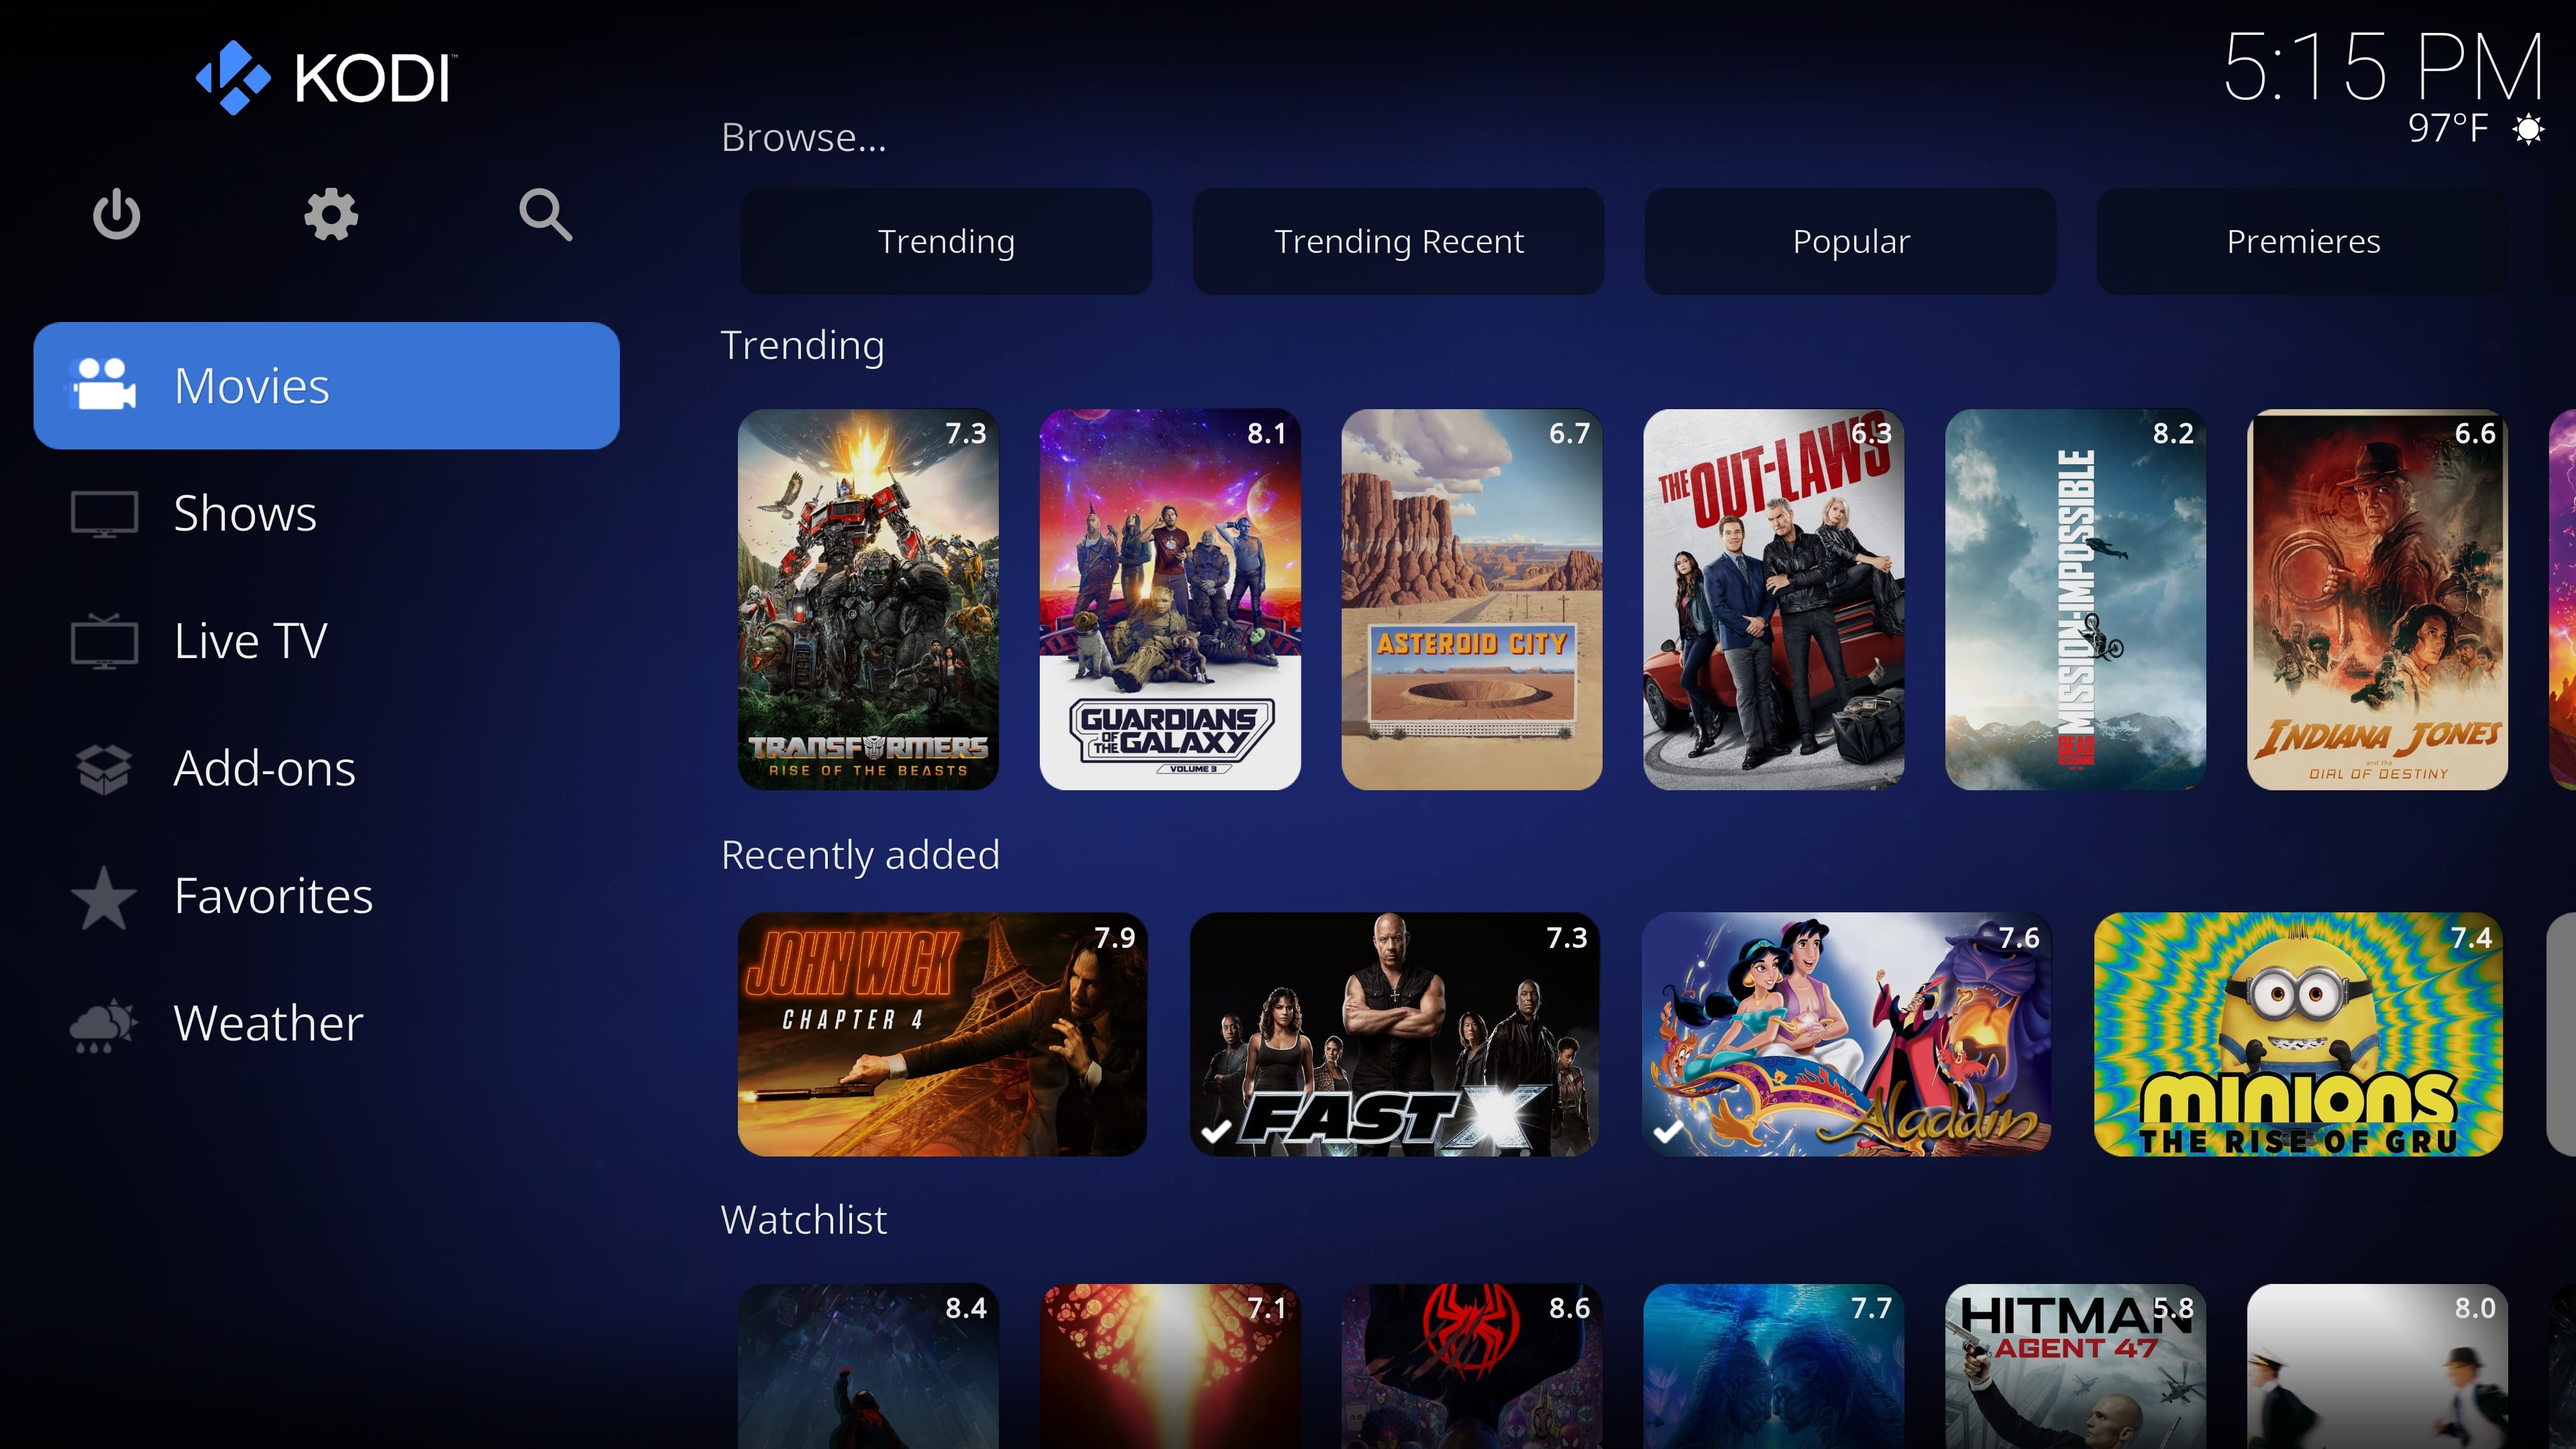
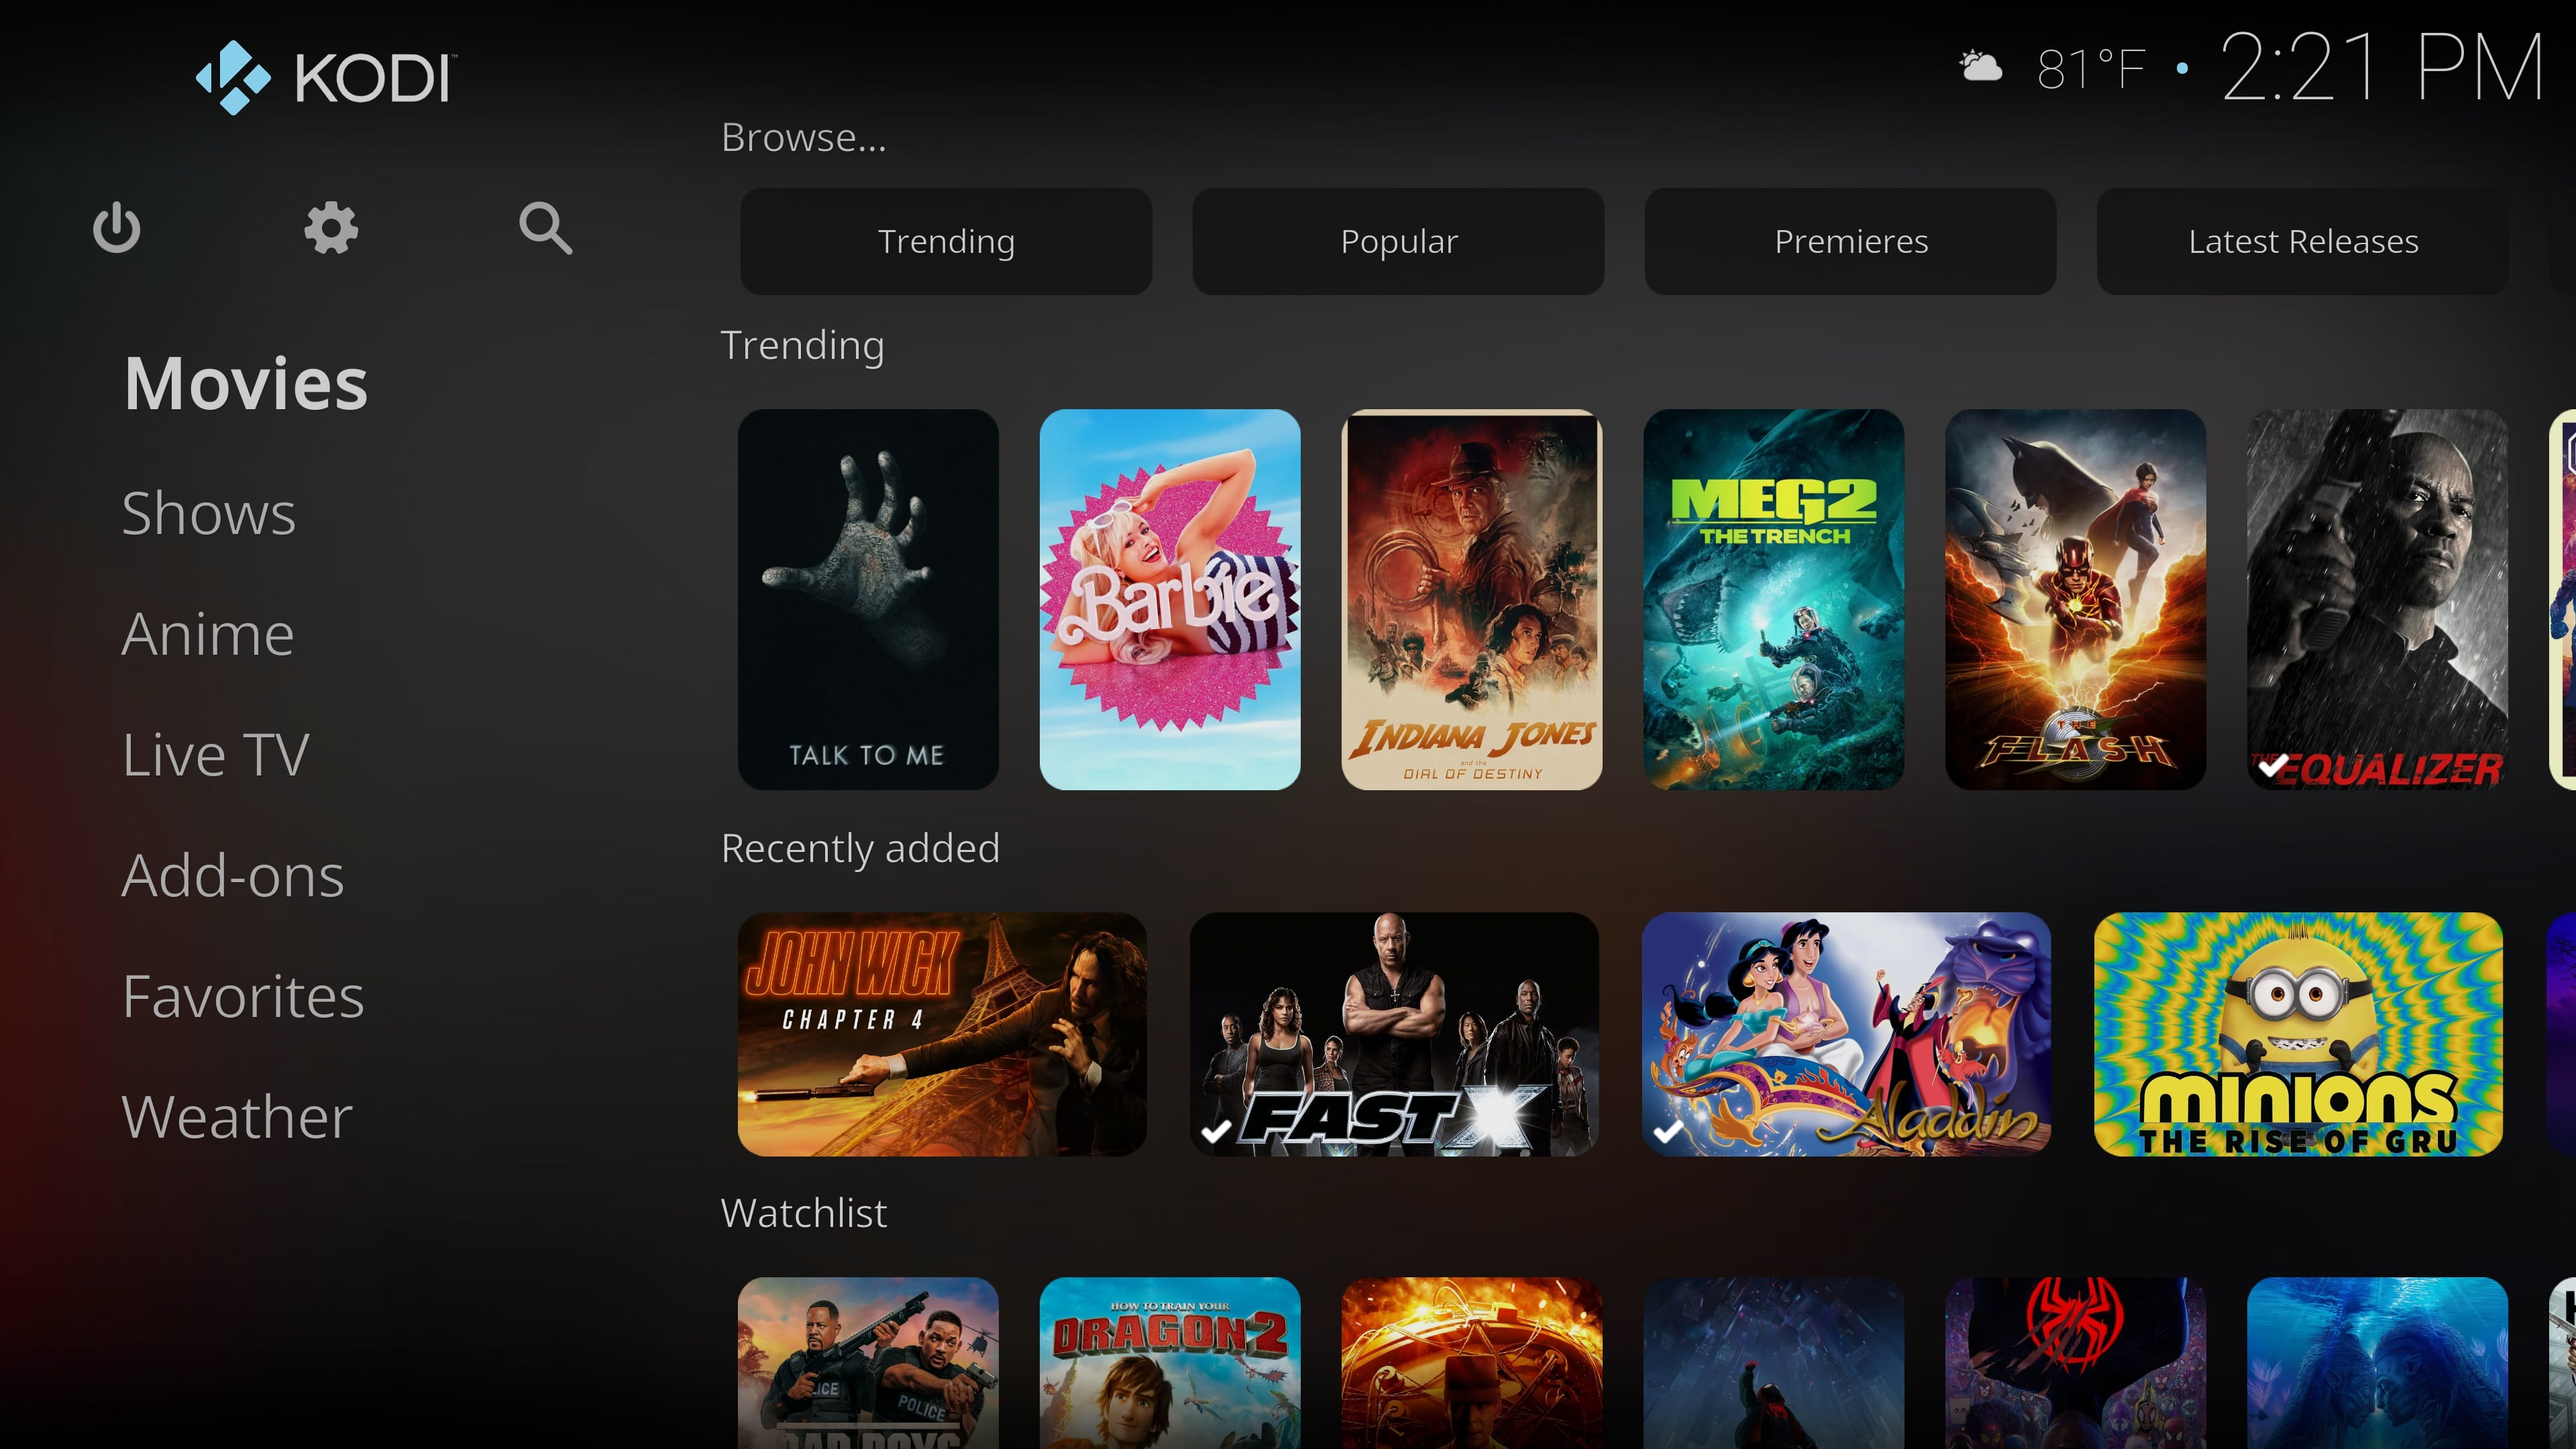
updated documentation

diff --git a/README.md b/README.md
@@ -38,23 +38,9 @@ Here are some of the key differences between FENtastic and the default Estuary s
 
   ![Search Window](resources/images/search_window1.jpg)
 
-* **InfoPanel**: FENtastic introduces a new InfoPanel for widgets.
+* **InfoPanel with Ratings**: FENtastic introduces a new InfoPanel with optional displaying of ratings for widgets. The ratings can be dislayed in the InfoPanel, widget labels, or both.
 
   ![InfoPanel](resources/images/infopanel.jpg)
-
-* **Color Themes**: FENtastic comes with a new default color theme, and a new color theme 'purple'. The UI changes extend into every color theme.
-
-  ![Color Theme Purple](resources/images/color_theme.jpg)
-
-  ![Color Theme Estuary](resources/images/color_theme1.jpg)
-
-  ![Color Theme Gold](resources/images/color_theme2.jpg)
-
-  ![Color Theme Green](resources/images/color_theme3.jpg)
-
-  ![Color Theme Pink](resources/images/color_theme4.jpg)
-
-  ![Color Theme Maroon](resources/images/color_theme5.jpg)
 
 ## Features
 * NEW UI experience
@@ -63,14 +49,11 @@ Here are some of the key differences between FENtastic and the default Estuary s
 * Customizable movie and show main menu items
 * Customizable widgets and category widgets for movies, tvshows, and episodes
 * Custom stacked widgets for movies, tvshows, and episodes
+* Ratings displayed for movies, tvshows, seasons, and episodes
 * New InfoPanel for widgets
 * New custom search window
 * Progress displayed for movies, tvshows, seasons and episodes
-* New default Colors theme
-* New Color theme 'purple'
-* Skin-wide adjustments to dialog and menu colors for every color theme
 * Custom Search options from Home window
-* PVR guide adjustments
 
 
 ## Download and installation
@@ -125,15 +108,7 @@ To set up the widgets, follow these steps:
 
 5. If you would like to rearrange, rename, remake, change display type, or remove a widget after you have set it up, click the widget. You'll see a list of options pop up. Click the desired option. You can reconfigure your widgets as many times as you'd like. You can also rename, remake, or remove the main menu items.
 
-   ![Step 4](resources/images/step_5.jpg)
-
-## Stacked Widgets
-
-Stacked widgets contain a category widget and a normal widget beneath. The category widget "communicates" with the normal widget in order to load the new widget list according to the focused item in the category widget. If the stacked widget that you set up has 20 items in it, then that means you'll be able to have all 20 widgets available from just one widget on the home screen.
-
-![Stacked Widgets](resources/images/stacked_widgets.jpg)
-
-![Stacked Widgets1](resources/images/stacked_widgets1.jpg)
+   ![Step 5](resources/images/step_5.jpg)
 
 
 
